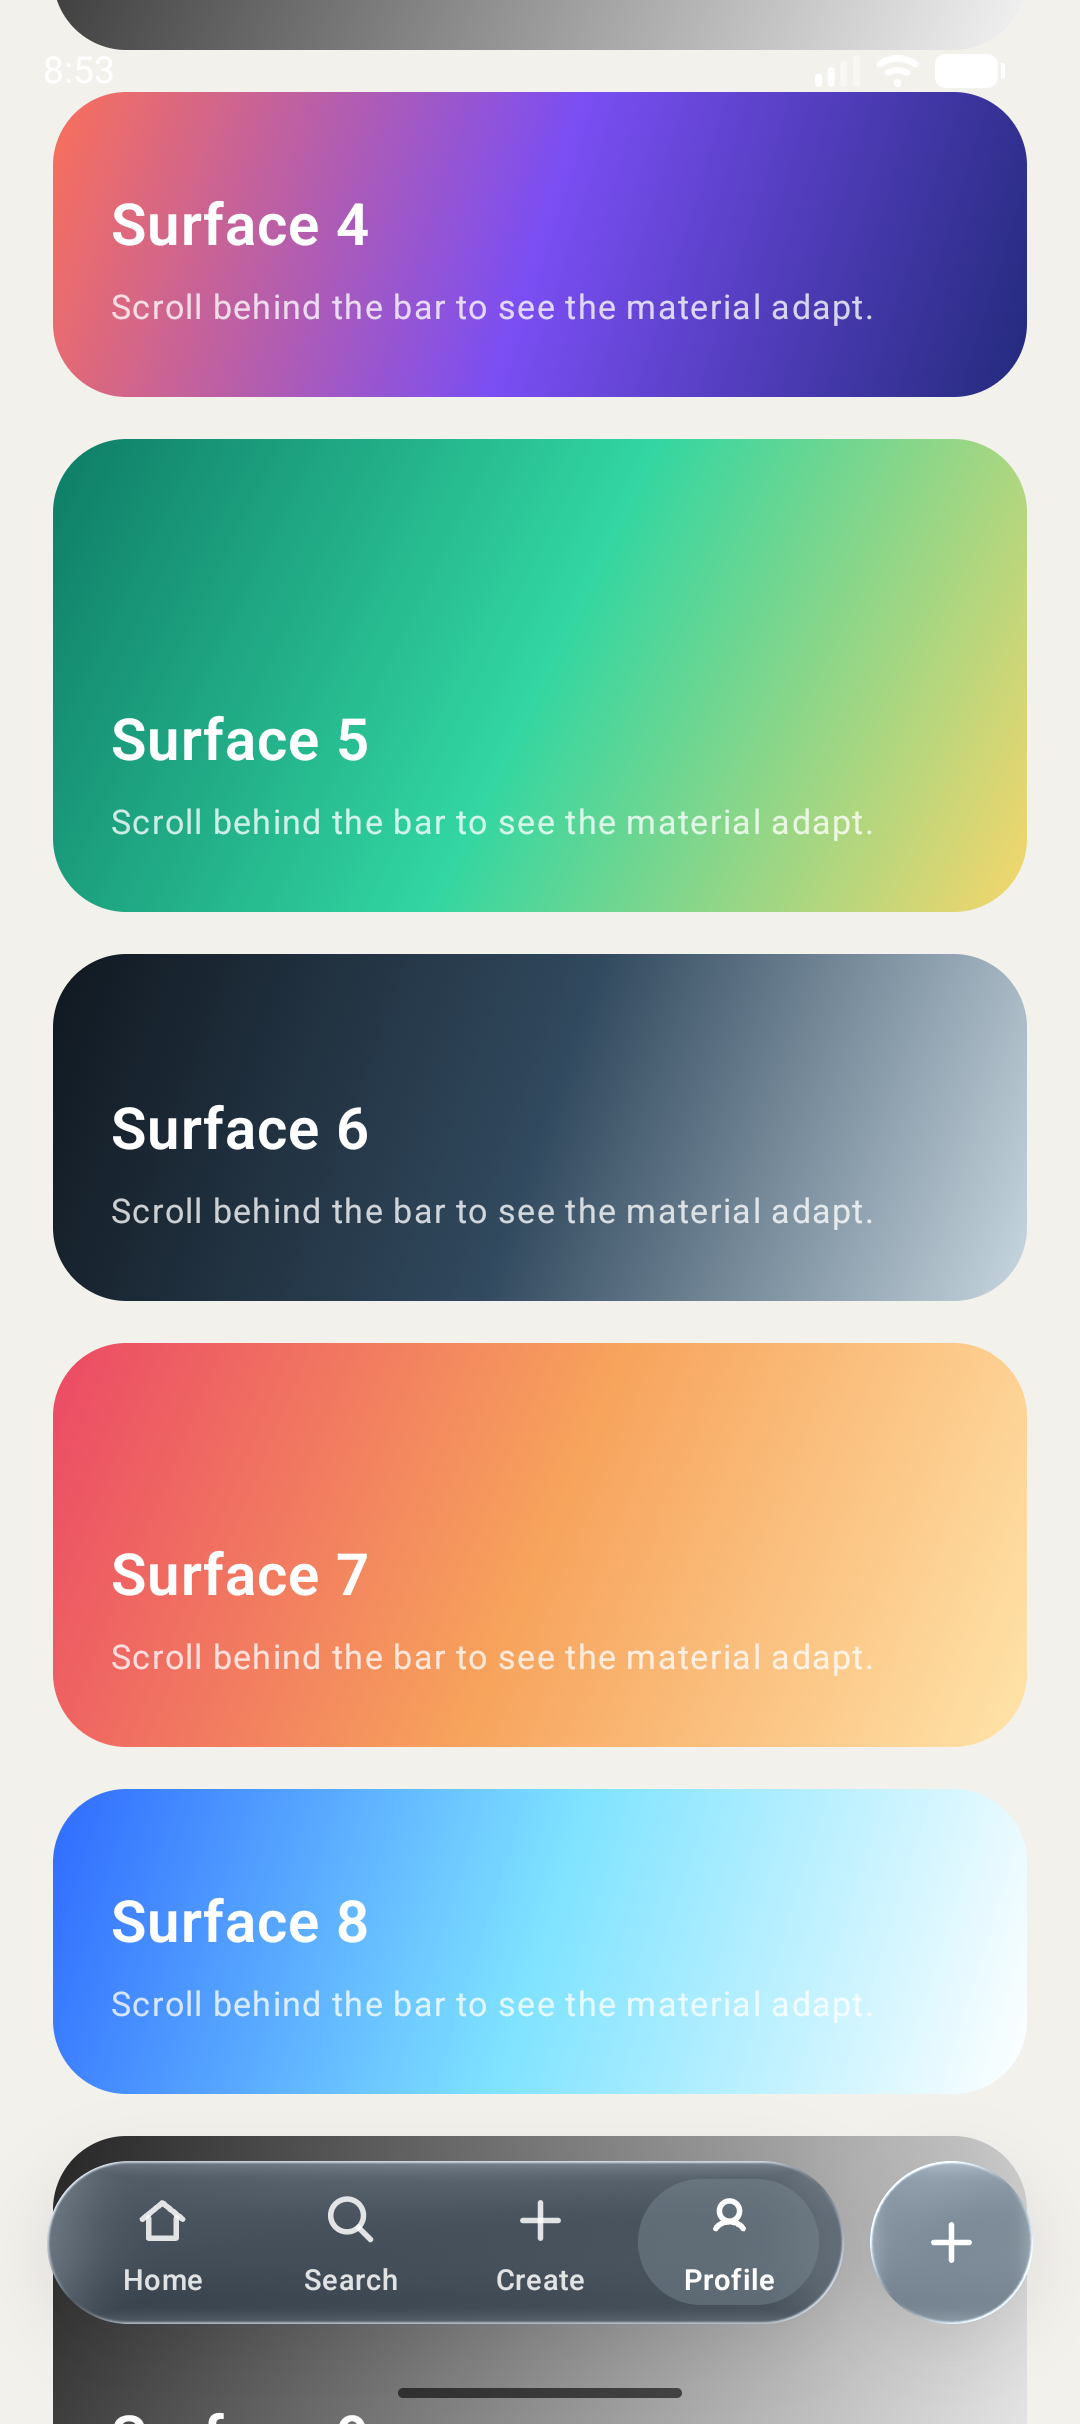
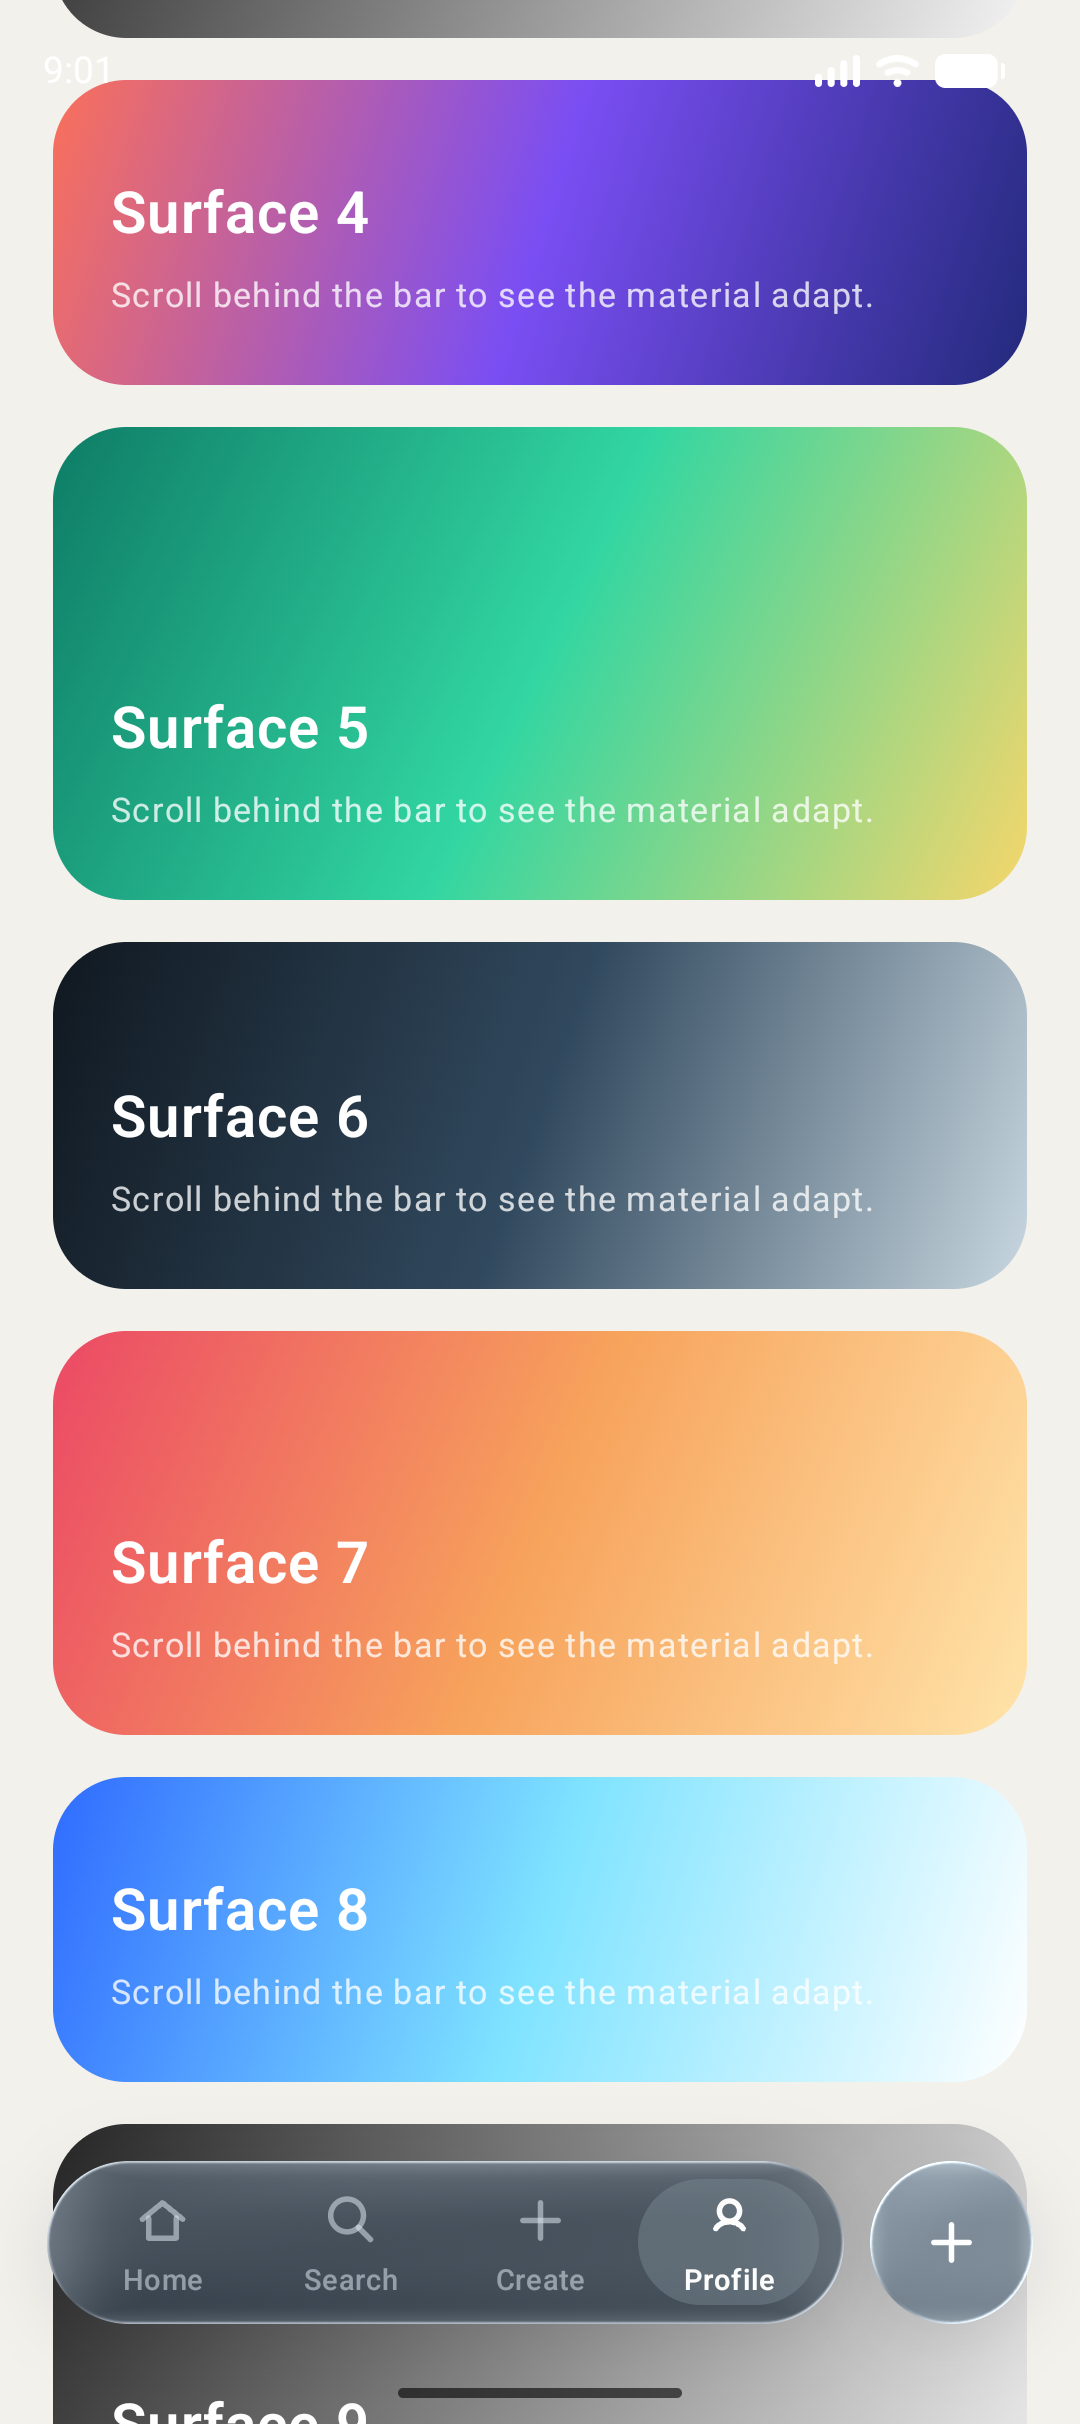
Improve selected navigation contrast

diff --git a/app/src/main/java/app/thdev/myapplication/ui/components/liquidglass/LiquidGlassBottomNavigation.kt b/app/src/main/java/app/thdev/myapplication/ui/components/liquidglass/LiquidGlassBottomNavigation.kt
@@ -488,9 +488,9 @@ private fun resolveLiquidGlassColors(
             containerSurfaceColor = Color.White.copy(alpha = 0.58f),
             selectedSurfaceColor = Color.White.copy(alpha = 0.46f),
             actionSurfaceColor = Color.White.copy(alpha = 0.64f),
-            selectedContentColor = Color(0xFF151515),
-            unselectedContentColor = Color(0xFF252525).copy(alpha = 0.78f),
-            actionContentColor = Color(0xFF151515),
+            selectedContentColor = Color(0xFF111111),
+            unselectedContentColor = Color(0xFF2F343A).copy(alpha = 0.52f),
+            actionContentColor = Color(0xFF111111),
         )
 
         LiquidGlassTone.Dark -> LiquidGlassResolvedColors(
@@ -498,7 +498,7 @@ private fun resolveLiquidGlassColors(
             selectedSurfaceColor = Color(0xFF7E8A94).copy(alpha = 0.44f),
             actionSurfaceColor = Color(0xFF55616B).copy(alpha = 0.68f),
             selectedContentColor = Color.White.copy(alpha = 0.98f),
-            unselectedContentColor = Color.White.copy(alpha = 0.84f),
+            unselectedContentColor = Color(0xFFDCE6EF).copy(alpha = 0.54f),
             actionContentColor = Color.White.copy(alpha = 0.98f),
         )
     }

diff --git a/app/src/main/java/app/thdev/myapplication/ui/components/liquidglass/LiquidGlassNavigationStyle.kt b/app/src/main/java/app/thdev/myapplication/ui/components/liquidglass/LiquidGlassNavigationStyle.kt
@@ -58,8 +58,8 @@ object LiquidGlassNavigationDefaults {
         selectedSurfaceColor: Color = Color.White.copy(alpha = 0.68f),
         menuSurfaceColor: Color = Color.White.copy(alpha = 0.64f),
         selectedContainerColor: Color = Color.Transparent,
-        selectedContentColor: Color = Color(0xFF151515),
-        unselectedContentColor: Color = Color(0xFF303030).copy(alpha = 0.68f),
+        selectedContentColor: Color = Color(0xFF111111),
+        unselectedContentColor: Color = Color(0xFF2F343A).copy(alpha = 0.52f),
     ): LiquidGlassNavigationStyle {
         return LiquidGlassNavigationStyle(
             height = height,